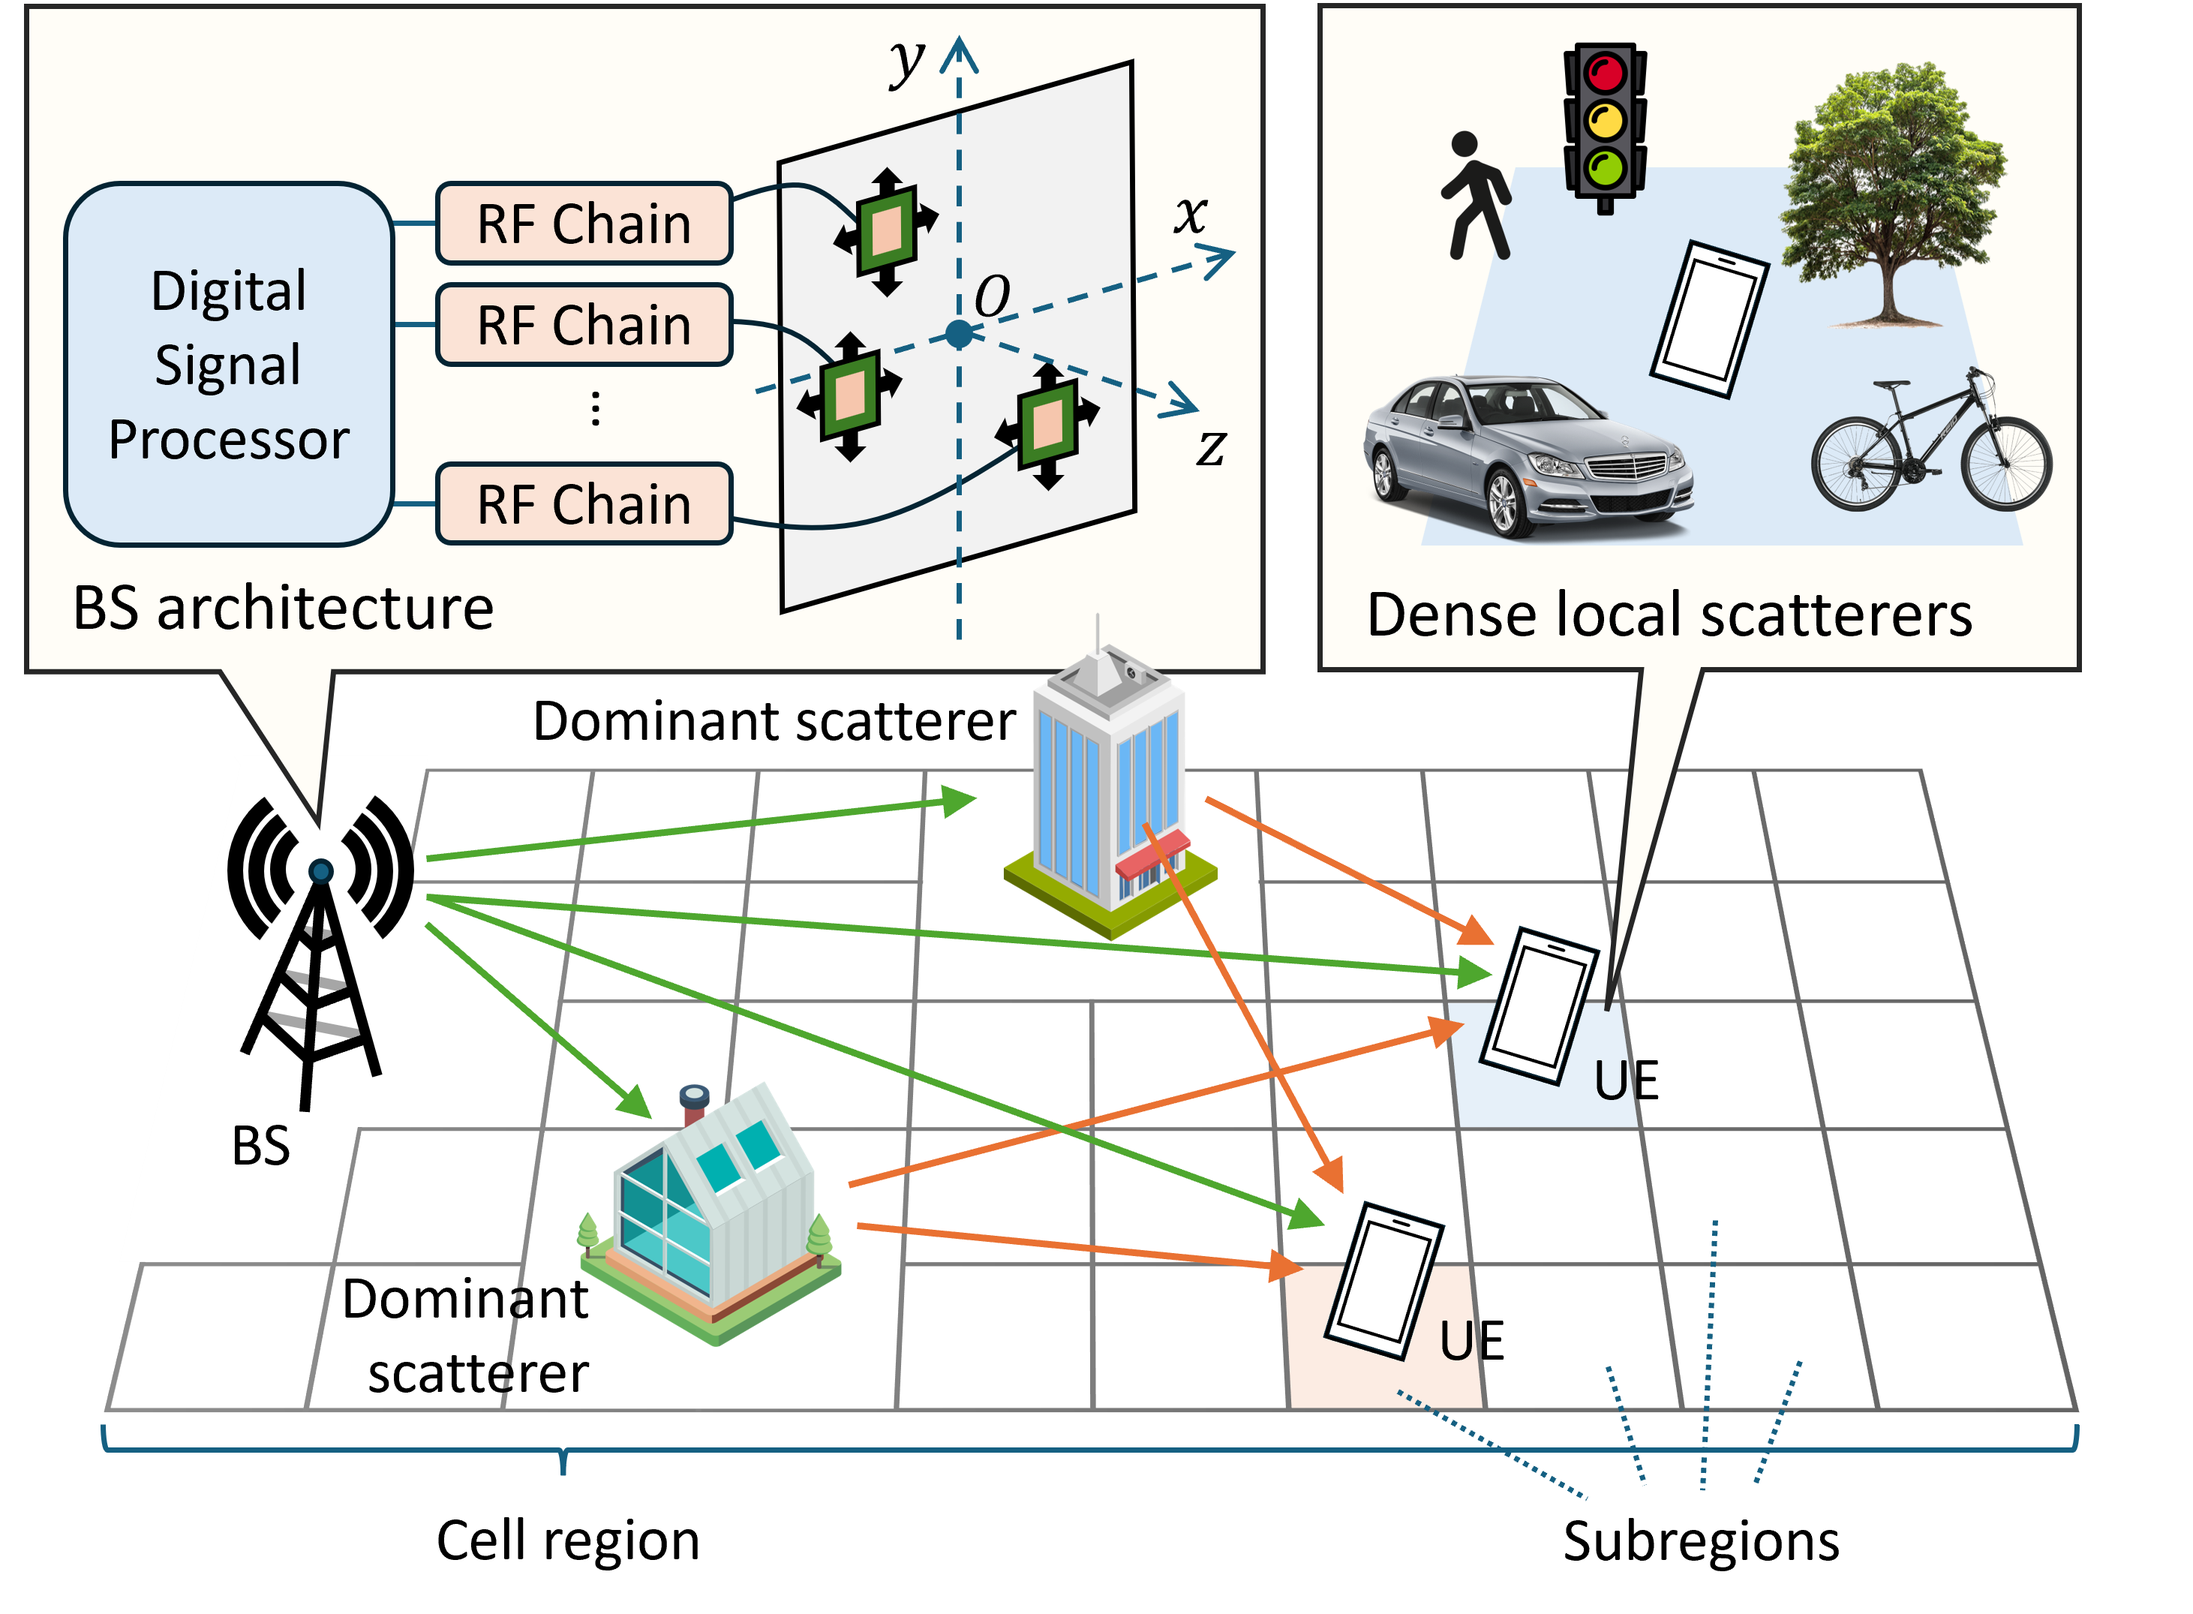
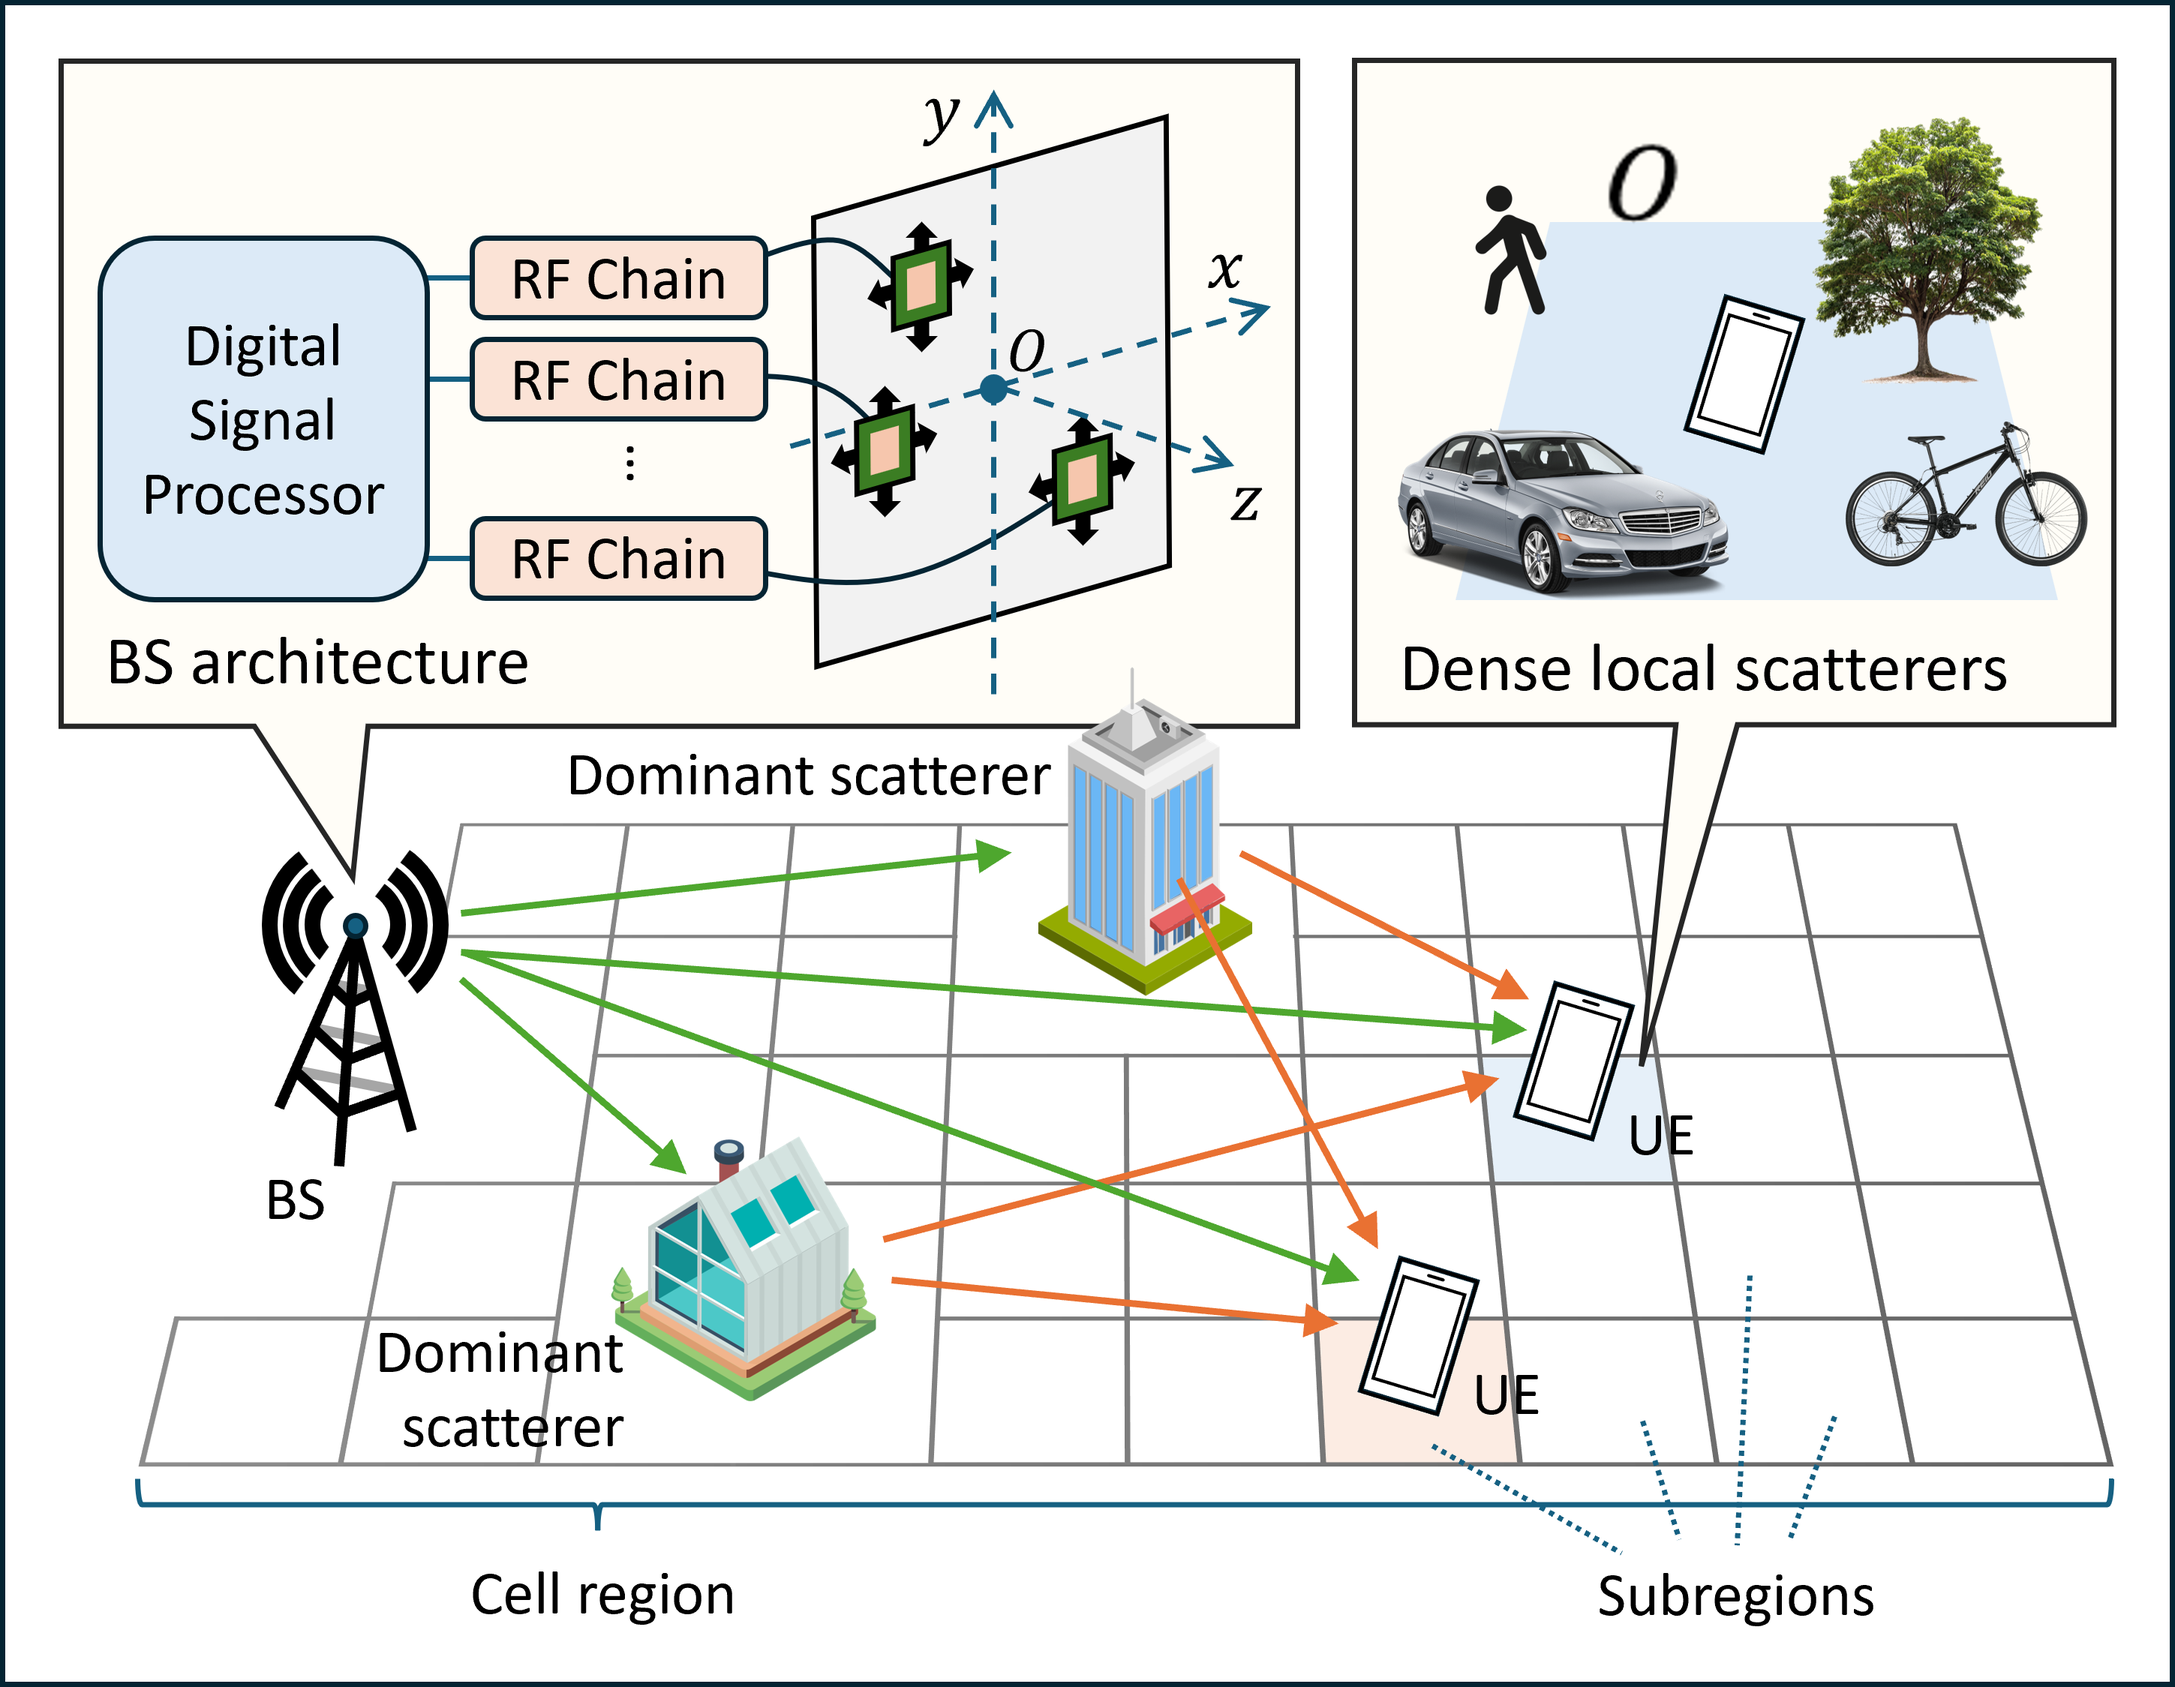
proj-skill-update

Changed region(s): [[0.0, 0.0, 1.0, 1.0], [0.714, 0.9344, 0.8693, 0.9656], [0.1863, 0.9344, 0.3415, 0.9656]]

diff --git a/_layouts/home.html b/_layouts/home.html
@@ -10,8 +10,6 @@ layout: default
     <p class="sidebar__role">{{ site.author.role }}</p>
     {% if site.author.location %}<p class="sidebar__location">{{ site.author.location }}</p>{% endif %}
 
-    {% include social-links.html %}
-
     {% if site.social.email.size > 0 %}
     <div class="sidebar__emails">
       <span class="sidebar__emails-label">{% if site.social.email.size > 1 %}E-mails:{% else %}E-mail:{% endif %}</span>
@@ -20,6 +18,8 @@ layout: default
       {% endfor %}
     </div>
     {% endif %}
+
+    {% include social-links.html %}
 
     <p class="sidebar__actions">
       <a class="btn btn--primary" href="{{ "/cv/" | relative_url }}">View CV</a>

diff --git a/assets/css/main.scss b/assets/css/main.scss
@@ -195,7 +195,7 @@ h1, h2, h3, h4 {
   display: flex;
   flex-wrap: wrap;
   gap: 10px;
-  margin: 14px 0 18px;
+  margin: 0 0 18px;
 }
 .social-links a {
   display: inline-flex;
@@ -214,7 +214,7 @@ h1, h2, h3, h4 {
   display: flex;
   flex-direction: column;
   gap: 2px;
-  margin: 0 0 18px;
+  margin: 10px 0 14px;
   font-size: 0.88rem;
 }
 .sidebar__emails-label { font-weight: 600; color: var(--text); }

diff --git a/projects.html b/projects.html
@@ -1,7 +1,7 @@
 ---
 layout: page
 title: Projects
-subtitle: Software, tools, and side projects.
+subtitle: Prototyping, software/tool development, and side projects.
 permalink: /projects/
 ---
 

diff --git a/research.html b/research.html
@@ -1,7 +1,7 @@
 ---
 layout: page
 title: Research
-subtitle: Ongoing projects and directions.
+subtitle: Ongoing and past directions.
 permalink: /research/
 ---
 

diff --git a/CONTENT.md b/CONTENT.md
@@ -78,7 +78,7 @@ paste it above or below, and change the text.** For example, in
   venue: "Conference on Interesting Systems (CIS)"
   year: 2026
   month: 6                   # 1-12, or "" if unknown — used to order papers within the same year
-  type: conference          # journal | magazine | conference
+  type: conference          # journal | magazine | conference | preprint
   label: "my-paper"          # short unique id — reference it from a research/project entry's `papers:` list
   cite: >-
     **Jane Researcher** and Some Collaborator, "My New Paper Title,"
